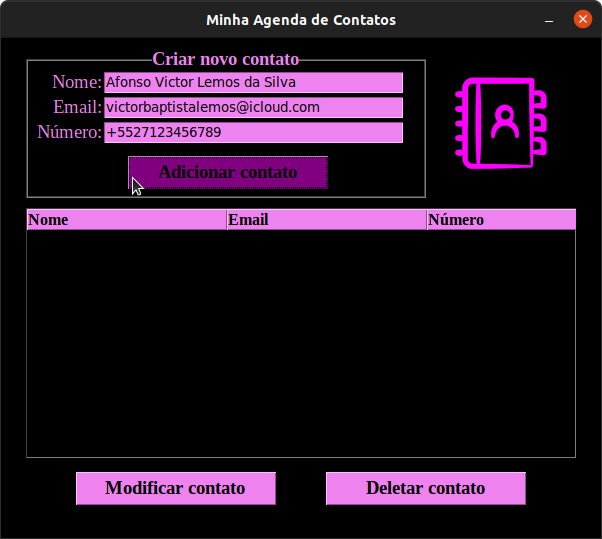
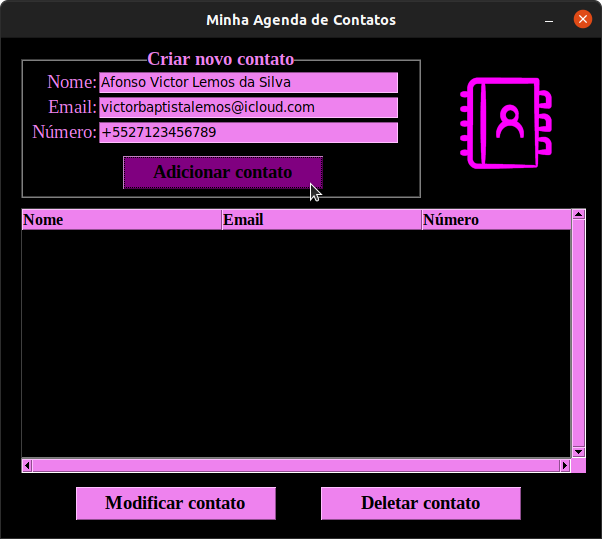
Scrollbars added. close #5

diff --git a/contacts/contacts.py b/contacts/contacts.py
@@ -1,9 +1,9 @@
-from tkinter import CENTER, E, PhotoImage, Tk, W
+from tkinter import CENTER, E, Label, PhotoImage, Tk, W
 from tkinter.ttk import Button as TButton
 from tkinter.ttk import Entry as TEntry
 from tkinter.ttk import Label as TLabel
 from tkinter.ttk import LabelFrame as TLabelFrame
-from tkinter.ttk import Style, Treeview
+from tkinter.ttk import Scrollbar, Style, Treeview
 
 
 class Contacts:
@@ -13,21 +13,22 @@ class Contacts:
         self.root: Tk = root
         style: Style = Style()
         style.configure('.', font='TimesNewRoman 12', background='black', foreground='violet')
-        style.configure('TLabelframe.Label', font='TimesNewRoman 14 bold')
-        style.configure('TLabel', font='TimesNewRoman 14')
-        style.configure('TEntry', fieldbackground='violet', foreground='black')
         style.configure('TButton', font='TimesNewRoman 14 bold')
+        style.configure('TEntry', fieldbackground='violet', foreground='black')
+        style.configure('TLabel', font='TimesNewRoman 14')
+        style.configure('TLabelframe.Label', font='TimesNewRoman 14 bold')
+        style.configure('TScrollbar', background='violet')
+        style.configure('Treeview', fieldbackground='black')
+        style.configure('Treeview.Heading', font='TimesNewRoman 12 bold')
         style.map(
             'TButton',
             background=[('active', 'purple'), ('!active', 'violet')],
             foreground=[('active', 'black'), ('!active', 'black')])
-        style.configure('Treeview', fieldbackground='black')
         style.map(
             'Treeview',
             foreground=[('selected', 'black'), ('!selected', 'violet')],
             background=[('selected', 'violet'), ('!selected', 'black')],
         )
-        style.configure('Treeview.Heading', font='TimesNewRoman 12 bold')
         style.map(
             'Treeview.Heading',
             background=[('active', 'violet'), ('!active', 'violet')],
@@ -43,7 +44,7 @@ class Contacts:
 
     def top_frame(self) -> None:
         top_frame = TLabelFrame(self.root, text='Criar novo contato', labelanchor='n')
-        top_frame.place(x=25, y=10, width=400, height=150)
+        top_frame.place(x=20, y=10, width=400, height=150)
         TLabel(top_frame, text='Nome:').place(x=75, y=10, anchor=E)
         TLabel(top_frame, text='Email:').place(x=75, y=35, anchor=E)
         TLabel(top_frame, text='Número:').place(x=75, y=60, anchor=E)
@@ -57,13 +58,16 @@ class Contacts:
         icon: PhotoImage = PhotoImage(file='contacts/.contacts.gif')
         label: TLabel = TLabel(image=icon, border=0)
         label.image = icon
-        label.place(x=450, y=35)
+        label.place(x=455, y=35)
 
     def bottom_frame(self):
         bottom_frame = Treeview(columns=(0, 0))
-        bottom_frame.place(x=25, y=170, width=550, height=250)
+        bottom_frame.place(x=20, y=170, width=550, height=250)
         bottom_frame.heading('#0', text='Nome', anchor=W)
         bottom_frame.heading('#1', text='Email', anchor=W)
         bottom_frame.heading('#2', text='Número', anchor=W)
-        TButton(self.root, text='Modificar contato').place(x=175, y=450, anchor=CENTER, width=200)
-        TButton(self.root, text='Deletar contato').place(x=425, y=450, anchor=CENTER, width=200)
+        Scrollbar(orient='vertical', command=bottom_frame.yview).place(x=570, y=170, height=250, width=15)
+        Scrollbar(orient='horizontal', command=bottom_frame.xview).place(x=20, y=420, height=15, width=550)
+        Label(self.root, background='violet').place(x=570, y=420, height=15, width=15)
+        TButton(self.root, text='Modificar contato').place(x=175, y=465, anchor=CENTER, width=200)
+        TButton(self.root, text='Deletar contato').place(x=420, y=465, anchor=CENTER, width=200)
